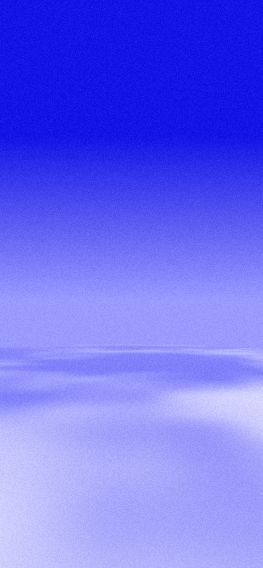
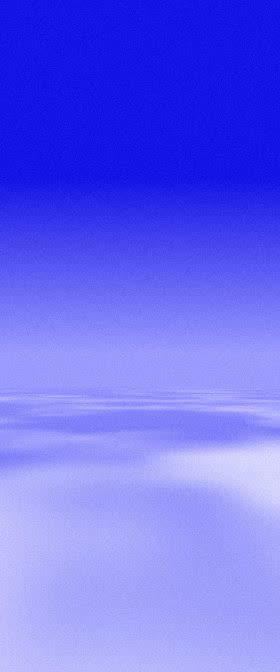
Relief: drifting clouds, light on the summit, clean edges, posters from the live render
- the sea of clouds drifts slowly (the backdrop draws continuously, not for reduced motion)
- the light catches the summit above the clouds
- the sea of clouds goes on to the horizon (it stopped at the globe's glass), fading into the sky far away
- the foot of the slopes melts wholly into the clouds, hazed as they are (no pale strip, no islets)
- the Moon: a plain around the crater, no square edge nor holes onto the sky (a disc again in the snow globe)
- the arrival posters re-rendered from the backdrop, framed as it frames itself, and their colour bands

Changed region(s): [[0.0913, 0.5986, 1.0, 0.7183], [0.0, 0.6884, 0.3042, 0.7482], [0.6692, 0.7183, 0.6996, 0.7482]]

diff --git a/src/home/relief-shader.ts b/src/home/relief-shader.ts
@@ -31,8 +31,9 @@ float hazeAt(float t, float y){ return 1. - exp(-t*.28/S*exp(-max(y, 0.)*1.1)); 
 // the sun: its angle (light) and its height (sun; low at dawn and dusk)
 vec3 toSun(){ return normalize(vec3(cos(light)*.64, sun, sin(light)*.64)); }
 float water(){ return WATER()*S; }
-// the sea of clouds: pale billows, in the same blue
+// the sea of clouds: pale billows, in the same blue, drifting slowly
 vec3 cloud(vec2 xz){
+  xz += vec2(.05, .02)*time;
   float n = .55*noise(xz*1.1/S) + .3*noise(xz*2.7/S + 5.) + .15*noise(xz*7./S + 9.);
   return mix(mix(sky, tint, .3), mix(sky, vec3(1.), .75), smoothstep(.25, .75, n));
 }
@@ -41,8 +42,9 @@ float inGlobe(vec2 xz){ float r = mix(60., RADIUS*.93, smoothstep(0., .3, pullba
 // in 3D we look south, so east is on the left: w = -(x, z). At the grid's edge, the relief sinks under the water.
 float relief(vec2 xz){
   vec2 w = -(xz + center*smoothstep(.15, .6, pullback))/S;           // pulling back, the landscape slides: its heart to the globe's centre
-  // flat (rise 0), the relief lies under the water or the clouds, like what is around it: no square raft at the horizon
-  float below = WATER() - .06;
+  // flat (rise 0), the relief lies at the level around it (OUTSIDE, reliefs.ts): no square raft at the horizon
+  // (pulling back, the Moon's plain goes: in the globe its crater is a disc, like the other places)
+  float below = mix(OUTSIDE(), WATER() - .06, smoothstep(0., .3, pullback));
   return S*mix(below, mix(below, height(w), rise), inGrid(w)*inGlobe(xz));
 }
 vec3 march(vec3 o, vec3 d, vec3 bg, out float t, out bool hit){
@@ -52,15 +54,24 @@ vec3 march(vec3 o, vec3 d, vec3 bg, out float t, out bool hit){
     if (h < .0015*t){ hit = true; break; }
     t += max(.004*S, .45*h); if (t > 8.*S || p.y > 2.*S) break;
   }
+  // on the Moon (no water, no clouds to hide it), out of steps while skimming its plain far away: it is the ground,
+  // not a hole onto the sky
+  if (!hit && t < 8.*S && h < .03*t*moon) hit = true;
   if (!hit) return bg;
   // the slope: over two grid points up close (no stripes), finer far away (sharp ridges)
   vec3 p = o + d*t; vec2 e = vec2(S*mix(.012, .005, smoothstep(2.*S, 5.*S, t)), 0.);
   vec3 n = normalize(vec3(relief(p.xz - e.xy) - relief(p.xz + e.xy), 2.*e.x, relief(p.xz - e.yx) - relief(p.xz + e.yx)));
   float lit = clamp(dot(n, toSun()), 0., 1.);
   vec3 c = mix(tint*.3, tint*1.05 + vec3(.14), lit);                 // all in one colour
-  // the foot of the slopes fades into the sea of clouds (not into real water)
-  c = mix(c, cloud(p.xz), (1. - REAL_WATER())*smoothstep(water() + .16, water(), p.y)*.85);
-  return mix(c, bg, hazeAt(t, p.y));                                 // and the haze, lighter up high
+  // the light catching the summit, high above the clouds
+  c += vec3(.16, .15, .24)*smoothstep(water() + .45, water() + .95, p.y)*lit;
+  // the haze, lighter up high; whole at the farthest the gaze goes (no edge against the sky; sooner on the Moon,
+  // whose plain goes on to the horizon, before the steps of the march run out)
+  c = mix(c, bg, max(hazeAt(t, p.y), smoothstep(mix(5., 2.5, moon)*S, mix(8., 4.5, moon)*S, t)));
+  // the foot of the slopes fades into the sea of clouds (not into real water), wholly at its level (no edge, no
+  // islet standing out), hazed as the sea of clouds around it
+  // is at that distance: far away, it melts into the sky as the sea does, never a pale strip standing out
+  return mix(c, mix(cloud(p.xz), bg, haze(t)), (1. - REAL_WATER())*smoothstep(water() + .16, water(), p.y));
 }
 // the stars (at night): fixed in the sky, more of them higher up
 float star(vec3 d){
@@ -87,10 +98,11 @@ vec3 landscape(vec3 o, vec3 rd, vec3 bg, out float tp){
       float fresnel = .25 + .75*pow(1. - max(rd2.y, 0.), 4.);
       surface = mix(surface, mix(tint*.25, seen, fresnel), REAL_WATER());
     }
-    c = mix(surface, bg, haze(tl));
-    // the water stops at the glass: it fades into the haze before
+    c = mix(surface, bg, max(haze(tl), smoothstep(5.*S, 8.*S, tl)));   // as the relief: whole far away
+    // pulling back, the water stops at the glass: it fades into the haze before (inside, it goes on to the horizon,
+    // around the far hills too)
     float rw = sqrt(RADIUS*RADIUS - (water() - GLOBE.y)*(water() - GLOBE.y));
-    c = mix(c, bg, smoothstep(rw - .8, rw, length(p.xz - GLOBE.xz)));
+    c = mix(c, bg, smoothstep(rw - .8, rw, length(p.xz - GLOBE.xz))*smoothstep(0., .15, pullback));
   }
   if (tp > 1e8) c += stars*star(rd);                                 // the night sky
   return c;

diff --git a/index.html b/index.html
@@ -43,10 +43,10 @@
     // while the poster is on its way (a slow connection), even before the page's styles: its own colours, top to
     // bottom, rather than a flat dark ground
     const bands = {
-      'tall-dawn': '#2c45ec,#4e62f0,#adb5fc,#bdc2fd,#c6cafe', 'tall-day': '#1613e8,#3232ec,#8787fb,#9f9efd,#adacfd',
-      'tall-dusk': '#2a1691,#3822a0,#6146cc,#826cd8,#9785dd', 'tall-night': '#161993,#1e24a0,#3741c4,#6168d1,#7c82d8',
-      'wide-dawn': '#5367f0,#8490f6,#b3b9fc,#bfc4fc,#bec3fc', 'wide-day': '#3736ec,#6261f4,#8c8bfb,#9898fc,#a1a0fb',
-      'wide-dusk': '#3b25a2,#5036b7,#6448cf,#6e52d6,#8570d7', 'wide-night': '#1f26a3,#2c34b5,#3843c5,#424cca,#656cd1',
+      'tall-dawn': '#2b46eb,#475ded,#bcc2fd,#c1c8fc,#bec5fc', 'tall-day': '#1414e6,#2c2cea,#9594fd,#a8a7fb,#a5a5fb',
+      'tall-dusk': '#2a1691,#36209c,#684cd2,#8e7dd9,#8d7cd8', 'tall-night': '#151a92,#1b239c,#3946c8,#7179d3,#7279d3',
+      'wide-dawn': '#566af0,#8894f6,#b7bdfd,#bbc2fc,#b9c0fb', 'wide-day': '#3a3aed,#6565f5,#8f8ffc,#9695fc,#9f9ffb',
+      'wide-dusk': '#3d26a4,#5039bb,#644ad0,#6e55d3,#7d6ad3', 'wide-night': '#1f27a3,#2d36b5,#3845c7,#4450cb,#5d66ce',
     }
     root.classList.add('poster')
     root.style.setProperty('--poster', `url(${src})`)

diff --git a/src/home/cards.css b/src/home/cards.css
@@ -13,7 +13,10 @@ html.backdrop-ready canvas { opacity: 1; }           /* the backdrop fades in, o
 ::view-transition-old(backdrop) { display: none; }
 ::view-transition-new(backdrop) { animation: none; }
 /* the poster: the backdrop's first image (the sea of clouds), rendered beforehand; the live backdrop fades over it */
-html.poster::before { content: ''; position: fixed; inset: 0; z-index: 0; background: var(--poster) center / cover; }
+/* framed as the backdrop frames it (relief-shader.ts: the screen's height in landscape, its width in portrait), so that
+   the backdrop fading over it changes nothing; the posters are 2.4:1 (and 1:2.4), wider than any screen but the widest */
+html.poster::before { content: ''; position: fixed; inset: 0; z-index: 0; background: var(--poster) center / max(100vw, 240.6vh) auto no-repeat; }   /* (a hair more: no seam at the top) */
+@media (max-aspect-ratio: 1/1) { html.poster::before { background-size: max(100.3vw, 41.8vh) auto; } }
 /* the texts lying on the backdrop: a very light shadow, so they read even on the pale haze */
 .top-bar, .row b, .row span, .place-label, .globe-hint, .project-note {
   text-shadow: 0 0 24px #0a0a4a66, 0 1px 2px #0a0a4a40;

diff --git a/src/home/reliefs.ts b/src/home/reliefs.ts
@@ -65,6 +65,8 @@ const heightGLSL = (name: Place, fn: string) => {
 }
 const edgeGLSL = (name: Place) => `edgeUV(toUV(w, ${glVec3(RELIEFS[name].frame)}))`
 const waterW = (name: Place) => toW(RELIEFS[name], RELIEFS[name].water)
+// the Moon's plain around the crater (m)
+const MOON_PLAIN = 0
 export const RELIEFS_GLSL = `
 uniform sampler2D ${PLACES.map((p) => p + 'T').join(', ')};
 uniform vec3 places1;   // Romainville, Eus, Canigou
@@ -120,4 +122,7 @@ float WATER(){
 }
 // 1 where the water is real, 0 where it is a sea of clouds
 float REAL_WATER(){ return places2.x + places2.y + bay; }
+// the level around the grid, where there are no heights: just under the water or the clouds, which hide it; on the
+// Moon (neither), a plain at the level of the land around the crater, so that the relief never ends on a square edge
+float OUTSIDE(){ return WATER() - .06 + moon*(${toW(RELIEFS.moon, MOON_PLAIN)} - ${waterW('moon')} + .06); }
 `

diff --git a/src/home/backdrop.ts b/src/home/backdrop.ts
@@ -41,6 +41,8 @@ export const BACKDROP = placeLabel(
     scale: matchMedia('(pointer: coarse)').matches || innerWidth < 820 ? 0.35 : 0.75,
     textures: texturesStartingWith(PROJECT_PLACES[START]),
     duration: calm ? 500 : 1600,
+    // always drawing: the sea of clouds drifts (still for whoever asked for less motion)
+    animated: !calm,
     ready: () => document.documentElement.classList.add('backdrop-ready'),
   }),
   SETTINGS[START] as { here: number },
